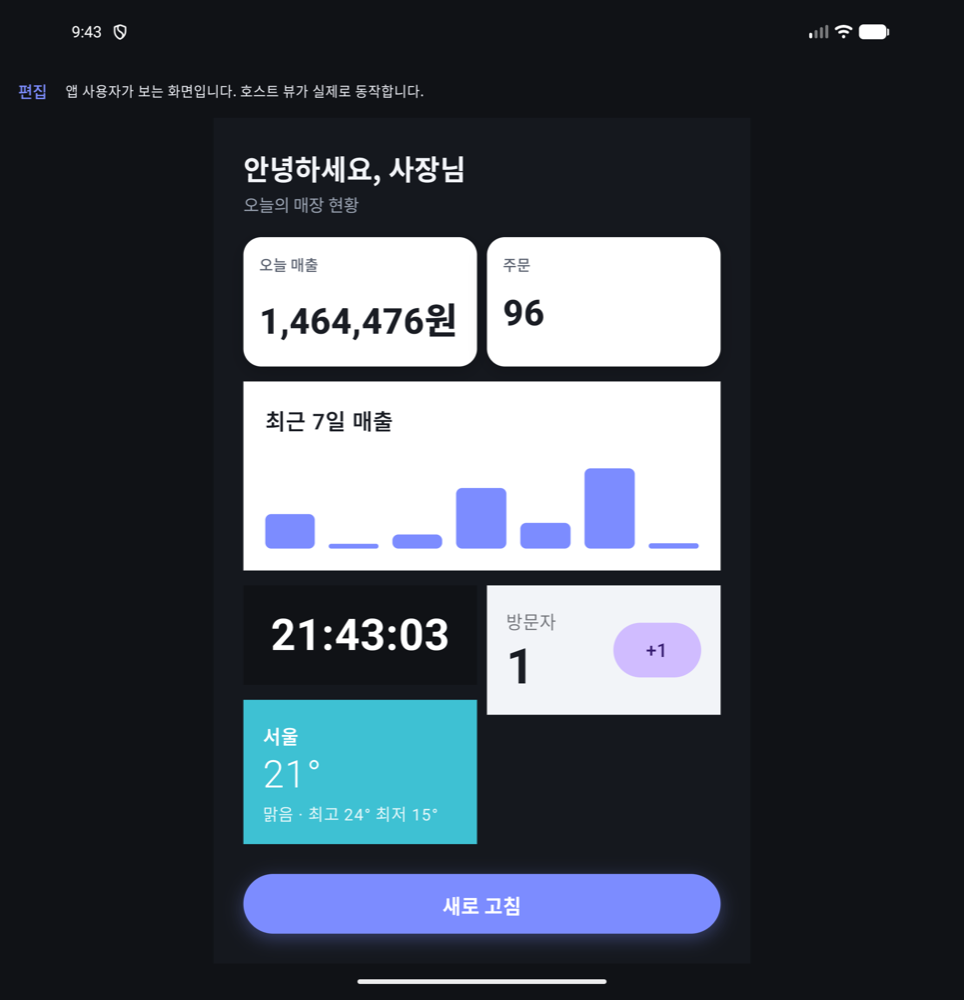
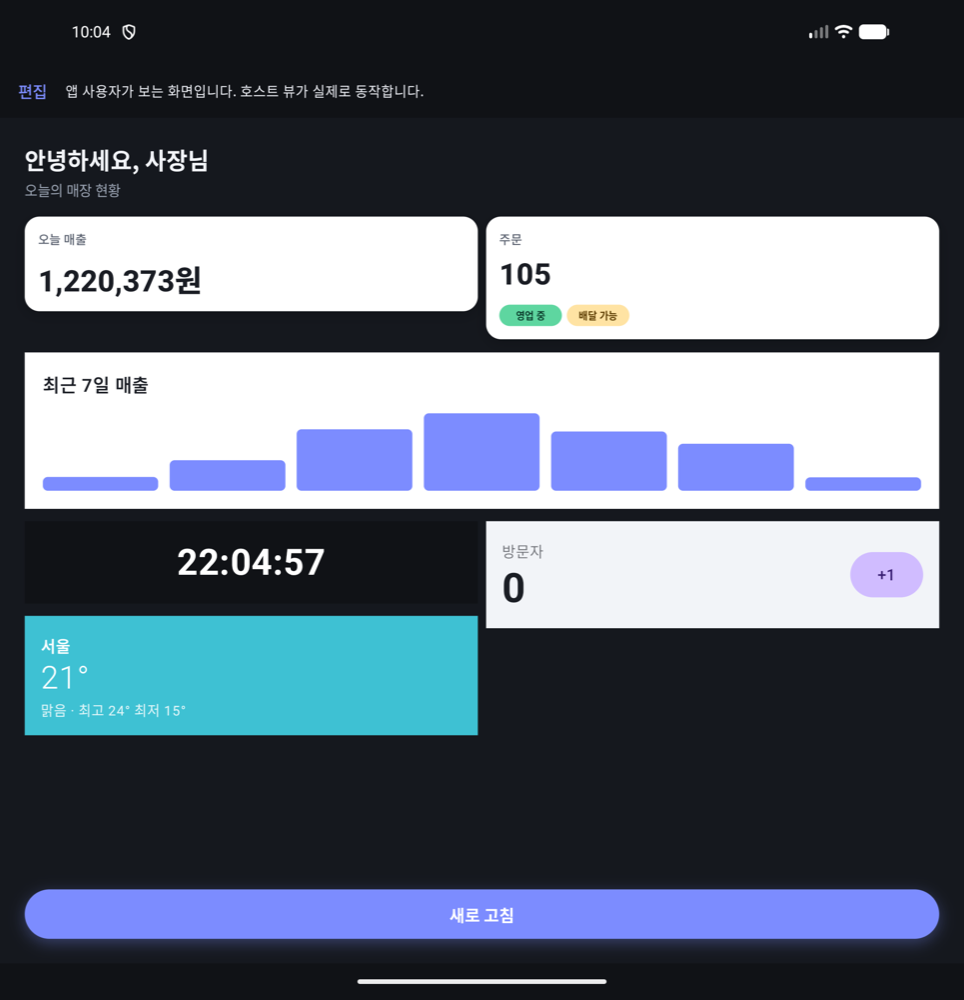
feat(sample): 대시보드를 자동 배치·제약으로 다시 구성, 미리보기를 화면 크기 대응으로
- 숫자 카드·위젯 줄은 남는 공간을 반씩 채우고 그래프·버튼은 좌우로 늘며 버튼은 아래에 붙음
- 상태 표시 줄은 데이터로 숨은 표시 자리를 메움
- README·검증 가이드·docs 30에 2단계 내용 추가

diff --git a/sample-studio/src/main/kotlin/com/naury/kinetica/sample/DashboardScene.kt b/sample-studio/src/main/kotlin/com/naury/kinetica/sample/DashboardScene.kt
@@ -7,10 +7,18 @@ import com.naury.kinetica.core.geometry.Size
 import com.naury.kinetica.core.geometry.Transform2D
 import com.naury.kinetica.core.scene.ArgbColor
 import com.naury.kinetica.core.scene.Artboard
+import com.naury.kinetica.core.scene.AutoLayout
 import com.naury.kinetica.core.scene.BoundProperty
+import com.naury.kinetica.core.scene.CrossAlign
+import com.naury.kinetica.core.scene.Insets
+import com.naury.kinetica.core.scene.LayoutConstraints
+import com.naury.kinetica.core.scene.LayoutDirection
+import com.naury.kinetica.core.scene.Layouts
+import com.naury.kinetica.core.scene.MainAlign
 import com.naury.kinetica.core.scene.NodeContent
 import com.naury.kinetica.core.scene.NodeId
 import com.naury.kinetica.core.scene.NodeStyle
+import com.naury.kinetica.core.scene.Pin
 import com.naury.kinetica.core.scene.SceneDocument
 import com.naury.kinetica.core.scene.SceneNode
 import com.naury.kinetica.core.scene.Shadow
@@ -27,56 +35,142 @@ object DashboardScene {
     const val GREETING = "user.greeting"
 
     fun create(): SceneDocument {
-        val nodes = listOf(
-            text("greeting", "안녕하세요", 60.0, 60.0, 960.0, 90.0, 56.0, 700, 0xFFF2F4F8, bind = GREETING),
-            text("date", "오늘의 매장 현황", 60.0, 150.0, 960.0, 60.0, 34.0, 400, 0xFF9AA3B2),
-            card("sales-card", 60.0, 240.0, 470.0, 260.0, children = listOf("sales-label", "sales-value")),
-            text("sales-label", "오늘 매출", 32.0, 32.0, 400.0, 50.0, 30.0, 500, 0xFF5B6270, parent = "sales-card"),
-            text("sales-value", "-", 32.0, 110.0, 420.0, 110.0, 72.0, 800, 0xFF1A1D24, parent = "sales-card", bind = SALES_TODAY),
-            card("orders-card", 550.0, 240.0, 470.0, 260.0, children = listOf("orders-label", "orders-value", "open-badge")),
-            text("orders-label", "주문", 32.0, 32.0, 200.0, 50.0, 30.0, 500, 0xFF5B6270, parent = "orders-card"),
-            text("orders-value", "-", 32.0, 110.0, 300.0, 110.0, 72.0, 800, 0xFF1A1D24, parent = "orders-card", bind = ORDER_COUNT),
-            SceneNode(
-                NodeId("open-badge"),
-                NodeContent.Frame(Size(140.0, 56.0), listOf(NodeId("open-text")), cornerRadius = 28.0),
-                parentId = NodeId("orders-card"),
-                name = "영업 중",
-                transform = Transform2D(translationX = 300.0, translationY = 32.0),
-                style = NodeStyle(fill = ArgbColor(0xFF5ED6A0.toInt())),
-                bindings = mapOf(BoundProperty.Visible to STORE_OPEN),
+        val nodes = header() + stats() + badges() + widgets() + refreshButton()
+        return Layouts.apply(
+            SceneDocument(
+                documentId = "studio",
+                artboard = Artboard(1080.0, 1740.0, ArgbColor(0xFF15181E.toInt())),
+                nodes = nodes.associateBy { it.id },
+                rootOrder = nodes.filter { it.parentId == null }.map { it.id },
             ),
-            text("open-text", "영업 중", 0.0, 10.0, 140.0, 40.0, 26.0, 700, 0xFF0B3D2C, parent = "open-badge", align = TextAlignment.Center),
-            host("chart", HostWidgets.SALES_CHART, 60.0, 530.0, 960.0, 380.0),
-            host("clock", HostWidgets.CLOCK, 60.0, 940.0, 470.0, 200.0),
-            host("counter", HostWidgets.COUNTER, 550.0, 940.0, 470.0, 260.0),
-            host("weather", HostWidgets.WEATHER, 60.0, 1170.0, 470.0, 290.0),
-            SceneNode(
-                NodeId("refresh"),
-                NodeContent.Frame(Size(960.0, 120.0), listOf(NodeId("refresh-text")), cornerRadius = 60.0),
-                name = "새로 고침 버튼",
-                transform = Transform2D(translationX = 60.0, translationY = 1520.0),
-                style = NodeStyle(
-                    fill = ArgbColor(0xFF7C8CFF.toInt()),
-                    shadow = Shadow(ArgbColor(0x557C8CFF), offsetY = 10.0, blur = 30.0),
-                ),
-                action = "refresh",
-            ),
-            text("refresh-text", "새로 고침", 0.0, 34.0, 960.0, 60.0, 40.0, 700, 0xFFFFFFFF, parent = "refresh", align = TextAlignment.Center),
-        )
-        return SceneDocument(
-            documentId = "studio",
-            artboard = Artboard(1080.0, 1700.0, ArgbColor(0xFF15181E.toInt())),
-            nodes = nodes.associateBy { it.id },
-            rootOrder = nodes.filter { it.parentId == null }.map { it.id },
         )
     }
 
-    private fun card(id: String, x: Double, y: Double, w: Double, h: Double, children: List<String>) = SceneNode(
+    private fun header() = listOf(
+        text("greeting", "안녕하세요", 60.0, 60.0, 960.0, 90.0, 56.0, 700, 0xFFF2F4F8, bind = GREETING).stretchX(),
+        text("date", "오늘의 매장 현황", 60.0, 150.0, 960.0, 60.0, 34.0, 400, 0xFF9AA3B2).stretchX(),
+    )
+
+    /** 카드 두 장은 가로 자동 배치 줄 안에서 남는 공간을 반씩 채워, 화면이 넓어지면 함께 넓어진다. */
+    private fun stats() = listOf(
+        row("stats", 60.0, 240.0, listOf("sales-card", "orders-card")),
+        card("sales-card", "stats", listOf("sales-label", "sales-value")),
+        text("sales-label", "오늘 매출", 0.0, 0.0, 400.0, 50.0, 30.0, 500, 0xFF5B6270, parent = "sales-card"),
+        text("sales-value", "-", 0.0, 0.0, 400.0, 100.0, 72.0, 800, 0xFF1A1D24, parent = "sales-card", bind = SALES_TODAY),
+        card("orders-card", "stats", listOf("orders-label", "orders-value", "badges")),
+        text("orders-label", "주문", 0.0, 0.0, 200.0, 50.0, 30.0, 500, 0xFF5B6270, parent = "orders-card"),
+        text("orders-value", "-", 0.0, 0.0, 300.0, 100.0, 72.0, 800, 0xFF1A1D24, parent = "orders-card", bind = ORDER_COUNT),
+    )
+
+    /** 가로 자동 배치 줄. "영업 중"이 데이터로 숨으면 "배달 가능"이 그 자리로 당겨진다. */
+    private fun badges() = listOf(
+        SceneNode(
+            NodeId("badges"),
+            NodeContent.Frame(
+                Size(400.0, 52.0),
+                listOf(NodeId("open-badge"), NodeId("delivery-badge")),
+                clip = false,
+                layout = AutoLayout(LayoutDirection.Horizontal, gap = 12.0, hugWidth = true, hugHeight = true),
+            ),
+            parentId = NodeId("orders-card"),
+            name = "상태 표시",
+        ),
+        badge("open-badge", "영업 중", 0xFF5ED6A0).copy(bindings = mapOf(BoundProperty.Visible to STORE_OPEN)),
+        badgeText("open-badge", "영업 중", 0xFF0B3D2C),
+        badge("delivery-badge", "배달 가능", 0xFFFFE3A3),
+        badgeText("delivery-badge", "배달 가능", 0xFF5A3B00),
+    )
+
+    private fun widgets() = listOf(
+        host("chart", HostWidgets.SALES_CHART, 60.0, 570.0, 960.0, 380.0).stretchX(),
+        row("widgets", 60.0, 980.0, listOf("left-column", "counter")),
+        SceneNode(
+            NodeId("left-column"),
+            NodeContent.Frame(
+                Size(470.0, 520.0),
+                listOf(NodeId("clock"), NodeId("weather")),
+                clip = false,
+                layout = AutoLayout(LayoutDirection.Vertical, gap = 30.0, crossAlign = CrossAlign.Stretch, hugHeight = true),
+            ),
+            parentId = NodeId("widgets"),
+            name = "왼쪽 열",
+            layoutFill = true,
+        ),
+        host("clock", HostWidgets.CLOCK, 0.0, 0.0, 470.0, 200.0).copy(parentId = NodeId("left-column")),
+        host("weather", HostWidgets.WEATHER, 0.0, 0.0, 470.0, 290.0).copy(parentId = NodeId("left-column")),
+        host("counter", HostWidgets.COUNTER, 0.0, 0.0, 470.0, 260.0).copy(parentId = NodeId("widgets"), layoutFill = true),
+    )
+
+    /** 좌우로 늘어나는 가로 자동 배치 줄. 높이는 가장 큰 자식에 맞춘다. */
+    private fun row(id: String, x: Double, y: Double, children: List<String>) = SceneNode(
         id = NodeId(id),
-        content = NodeContent.Frame(Size(w, h), children.map(::NodeId), cornerRadius = 36.0),
+        content = NodeContent.Frame(
+            Size(960.0, 100.0),
+            children.map(::NodeId),
+            clip = false,
+            layout = AutoLayout(LayoutDirection.Horizontal, gap = 20.0, hugHeight = true),
+        ),
         name = id,
         transform = Transform2D(translationX = x, translationY = y),
+        constraints = LayoutConstraints(Pin.Both),
+    )
+
+    private fun refreshButton() = listOf(
+        SceneNode(
+            NodeId("refresh"),
+            NodeContent.Frame(
+                Size(960.0, 120.0),
+                listOf(NodeId("refresh-text")),
+                cornerRadius = 60.0,
+                layout = AutoLayout(LayoutDirection.Horizontal, mainAlign = MainAlign.Center, crossAlign = CrossAlign.Center),
+            ),
+            name = "새로 고침 버튼",
+            transform = Transform2D(translationX = 60.0, translationY = 1560.0),
+            style = NodeStyle(fill = ArgbColor(0xFF7C8CFF.toInt()), shadow = Shadow(ArgbColor(0x557C8CFF), offsetY = 10.0, blur = 30.0)),
+            action = "refresh",
+            // 화면이 길어져도 아래에 붙고, 넓어지면 좌우로 늘어난다.
+            constraints = LayoutConstraints(Pin.Both, Pin.End),
+        ),
+        text("refresh-text", "새로 고침", 0.0, 0.0, 300.0, 56.0, 40.0, 700, 0xFFFFFFFF, parent = "refresh", align = TextAlignment.Center),
+    )
+
+    private fun badgeText(badge: String, label: String, color: Long) =
+        text("$badge-text", label, 0.0, 0.0, 120.0, 36.0, 24.0, 700, color, parent = badge, align = TextAlignment.Center)
+
+    private fun SceneNode.stretchX() = copy(constraints = LayoutConstraints(Pin.Both))
+
+    /** 숫자 카드. 안의 글자는 세로 자동 배치라 데이터로 글자가 바뀌거나 표시가 숨어도 자리가 맞춰진다. */
+    private fun card(id: String, parent: String, children: List<String>) = SceneNode(
+        id = NodeId(id),
+        content = NodeContent.Frame(
+            Size(470.0, 300.0),
+            children.map(::NodeId),
+            cornerRadius = 36.0,
+            layout = AutoLayout(
+                LayoutDirection.Vertical,
+                gap = 16.0,
+                padding = Insets.all(32.0),
+                crossAlign = CrossAlign.Stretch,
+                hugHeight = true,
+            ),
+        ),
+        parentId = NodeId(parent),
+        name = id,
         style = NodeStyle(fill = ArgbColor(0xFFFFFFFF.toInt()), shadow = Shadow(ArgbColor(0x33000000), offsetY = 10.0, blur = 28.0)),
+        layoutFill = true,
+    )
+
+    private fun badge(id: String, label: String, fill: Long) = SceneNode(
+        id = NodeId(id),
+        content = NodeContent.Frame(
+            Size(150.0, 52.0),
+            listOf(NodeId("$id-text")),
+            cornerRadius = 26.0,
+            layout = AutoLayout(LayoutDirection.Horizontal, padding = Insets(16.0, 8.0, 16.0, 8.0), hugWidth = true, hugHeight = true),
+        ),
+        parentId = NodeId("badges"),
+        name = label,
+        style = NodeStyle(fill = ArgbColor(fill.toInt())),
     )
 
     private fun host(id: String, key: String, x: Double, y: Double, w: Double, h: Double) = SceneNode(

diff --git a/sample-studio/src/main/kotlin/com/naury/kinetica/sample/MainActivity.kt b/sample-studio/src/main/kotlin/com/naury/kinetica/sample/MainActivity.kt
@@ -41,6 +41,7 @@ import com.naury.kinetica.core.scene.SceneData
 import com.naury.kinetica.editor.KineticaEditor
 import com.naury.kinetica.editor.StudioTheme
 import com.naury.kinetica.player.KineticaPlayer
+import com.naury.kinetica.player.SceneFit
 import com.naury.kinetica.render.SceneSlots
 
 class MainActivity : ComponentActivity() {
@@ -143,6 +144,8 @@ private fun Preview(
             data = data,
             slots = slots,
             onAction = onAction,
+            // 화면 모양대로 펼쳐, 아래 붙은 버튼·좌우로 늘어나는 그래프 같은 제약을 실제 기기 크기에서 보여 준다.
+            fit = SceneFit.Responsive,
         )
     }
 }

diff --git a/docs/30-ui-composer.md b/docs/30-ui-composer.md
@@ -28,3 +28,17 @@ SceneNode.action: String?                        // 누르면 onAction(action)
 - 편집 모드: 편집 제스처 층이 맨 위에서 포인터를 가져간다. 사용 모드: 노드의 동작과 호스트 뷰가 포인터를 받는다.
 - 호스트 뷰 안의 dp·sp는 기기 밀도가 아니라 `HOST_VIEW_UNITS_PER_DP`(문서 2.75 단위 = 1dp)로 계산한다. 그래서 같은 문서가 기기 밀도·편집 배율과 상관없이 상자 대비 같은 모습이다.
 - 글자 내용이 데이터에 묶여 있으면 글자 수정 창이 그 사실을 알리고, 묶음을 풀며 저장(실행 취소 한 단계)할 수 있다.
+
+## 자동 배치와 화면 크기 대응 (2단계)
+
+```text
+Frame.layout: AutoLayout?      // 방향(row·column), gap, padding, main(start·center·end·between), cross(start·center·end·stretch), hugWidth·hugHeight
+SceneNode.layoutFill: Boolean  // 자동 배치 안에서 남는 공간을 똑같이 나눠 채움
+SceneNode.constraints          // 자동 배치 밖: 부모 크기가 바뀔 때 h·v 각각 start·end·both·center·scale
+```
+
+- 배치는 `SceneReducer`가 명령마다 반영한다(`Layouts.settle`). 저장된 문서는 늘 배치가 끝난 상태이고, 배치가 만든 값도 검사한다. 열 때도 반영한다.
+- 안쪽 Frame부터 계산하며 늘이기·채움으로 크기가 바뀌면 최대 4번까지 다시 계산한다. 그 축을 내용에 맞추는 자식 Frame은 늘이지 않는다(두 규칙이 번갈아 바뀌지 않게).
+- 데이터가 보임을 바꾸면 그 자리만 다시 배치한다. 애니메이션 위치는 덮지 않는다.
+- 재생기 `SceneFit.Responsive`: artboard를 화면 모양(문서 단위 = `HOST_VIEW_UNITS_PER_DP` × dp)으로 바꾸고 최상위 노드를 제약대로 옮긴다.
+- 남은 것: 줄 바꿈(wrap), 최소·최대 크기, 글자 내용에 맞춘 크기(글자 측정이 core 밖이라 렌더러 협력 필요), 끌어서 자동 배치 안 순서 바꾸기.

diff --git a/README.md b/README.md
@@ -33,6 +33,7 @@
 
 ## 지금 되는 것 (0.1.0-SNAPSHOT)
 
+- **자동 배치·화면 크기 대응**: Frame 가로·세로 자동 배치(간격·여백·정렬·늘이기·내용 맞춤·남는 공간 채우기), 고른 노드를 자동 배치로 감싸기, 노드 제약(왼쪽·오른쪽·좌우·가운데·비율), 재생기 `SceneFit.Responsive`로 기기 화면 모양에 맞춰 펼치기
 - **호스트 UI 조립**: 호스트 뷰 자리(HostSlot)·Frame(모서리·자르기)·그림자·글자 굵기, 데이터 바인딩(글자·보임·이미지·채우기·불투명도), 탭 동작, 노드마다 실제 Compose 요소로 그리는 `SceneLayout`, 글자를 두 번 눌러 바로 고치기
 - **문서**: 그룹·사각형·타원·경로·글자·이미지 노드, 불변 문서, 명령으로만 수정, 모든 결과를 검증(id·순환·깊이·유한값·상한·URI)
 - **편집**: 고르기·옮기기·크기·회전(회전·중첩된 노드에서도 반대쪽 손잡이 고정), 사각 선택, 두 손가락 이동·확대, 안내선 스냅(8dp/12dp hysteresis), 그룹·그룹 해제(화면 위치 유지), 정렬·분배, 순서, 속성·레이어 패널, 키보드 단축키
@@ -95,7 +96,7 @@ val hostViews = listOf(HostViewOption("widget.sales_chart", "매출 그래프", 
 val data = SceneData.of("sales.today" to DataValue.Text("1,284,000원"))           // 글자 노드의 Text 바인딩 키
 
 KineticaEditor(session, slots = slots, hostViews = hostViews, data = data)        // 운영자·사용자가 배치
-KineticaPlayer(document, slots = slots, data = data, onAction = { action -> /* "refresh" 등 */ })
+KineticaPlayer(document, slots = slots, data = data, fit = SceneFit.Responsive, onAction = { action -> /* "refresh" 등 */ })
 ```
 
 세션은 화면 회전에도 유지되도록 ViewModel에 두고, 화면을 닫을 때 `session.close()`를 부릅니다. View 화면·Java·내보내기·전환은 [docs/integration.md](docs/integration.md)를 보세요.

diff --git a/docs/evaluation.md b/docs/evaluation.md
@@ -49,6 +49,10 @@ export JAVA_HOME="/Applications/Android Studio.app/Contents/jbr/Contents/Home"
 | H5 | 글자를 두 번 누르기 | 글자 수정 창이 뜨고, 고친 뒤 실행 취소 한 번에 되돌아감 | `HostComposerTest` |
 | H6 | 속성 패널 **데이터**: 내용 키·보임 키·탭 동작 | 키를 넣으면 그 데이터 값이 보이고, 동작 이름이 저장됨 | `PropertyEditsTest` |
 | H7 | **미리보기** → 카운터 +1, 새로고침 버튼 | 카운터 숫자가 오름(호스트 상태), "호스트가 받은 동작: refresh" 알림과 함께 값이 바뀜 | `PlayerHostTest` |
+| H8 | 대시보드에서 "widgets" 레이어 고르기 → 속성 **자동 배치** 가로↔세로 | 위젯이 줄·열로 다시 쌓임. 실행 취소 한 번에 되돌아감 | `AutoLayoutEditorTest`, `LayoutsTest` |
+| H9 | 도형 두 개 고르기 → 선택 줄 **자동 배치** | 위치 순서대로 쌓인 Frame으로 감싸지고, 간격·여백·정렬을 속성에서 바꿈 | `AutoLayoutEditorTest`, `LayoutsTest` |
+| H10 | 데이터로 "영업 중"이 숨을 때(2초마다 무작위) | "배달 가능"이 빈자리로 당겨지고 카드 높이가 맞춰짐 | `BindingsTest` |
+| H11 | **미리보기**(폴더블 펼침·접힘, 가로 화면) | 화면 모양대로 펼쳐짐: 카드·위젯은 반씩 채우고, 그래프·버튼은 좌우로 늘고, 버튼은 아래에 붙음 | `LayoutsTest`, `SceneLayoutTest` |
 
 ### 모션
 
